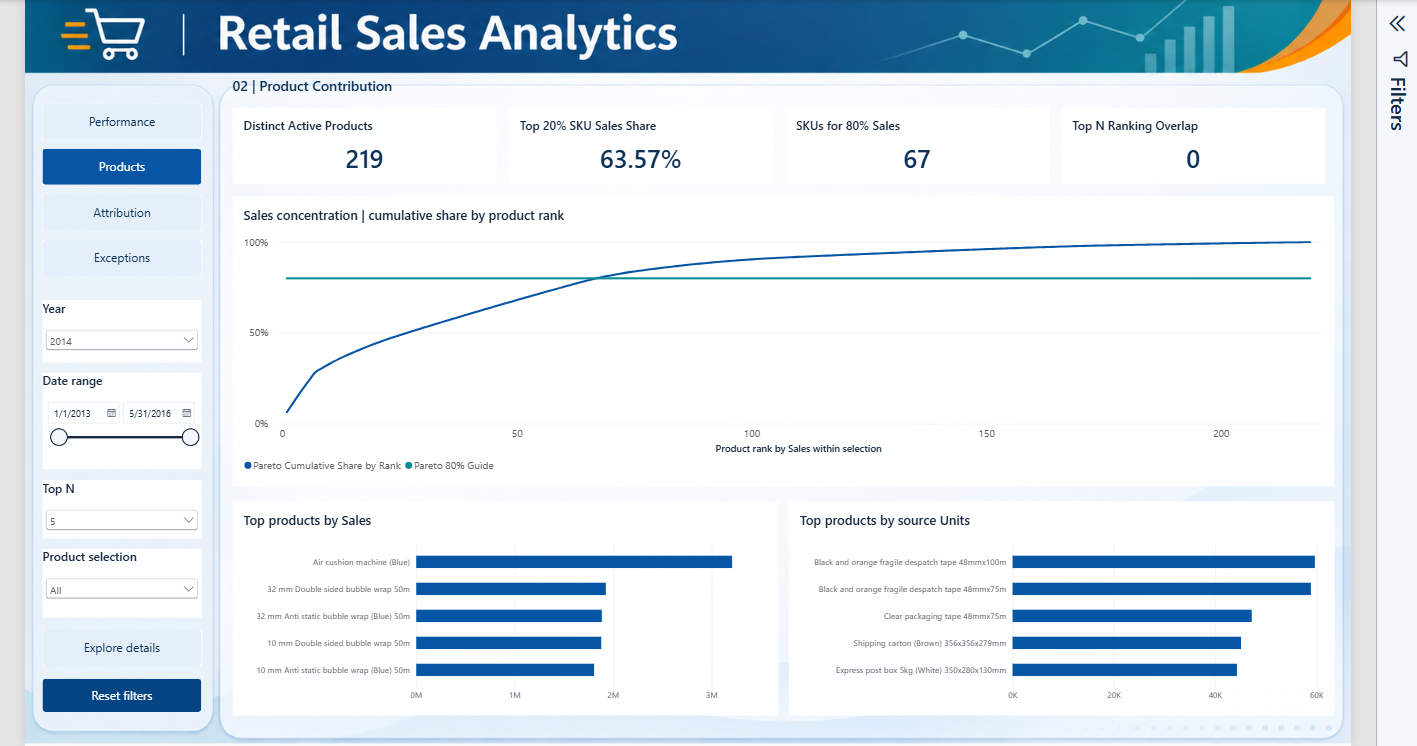
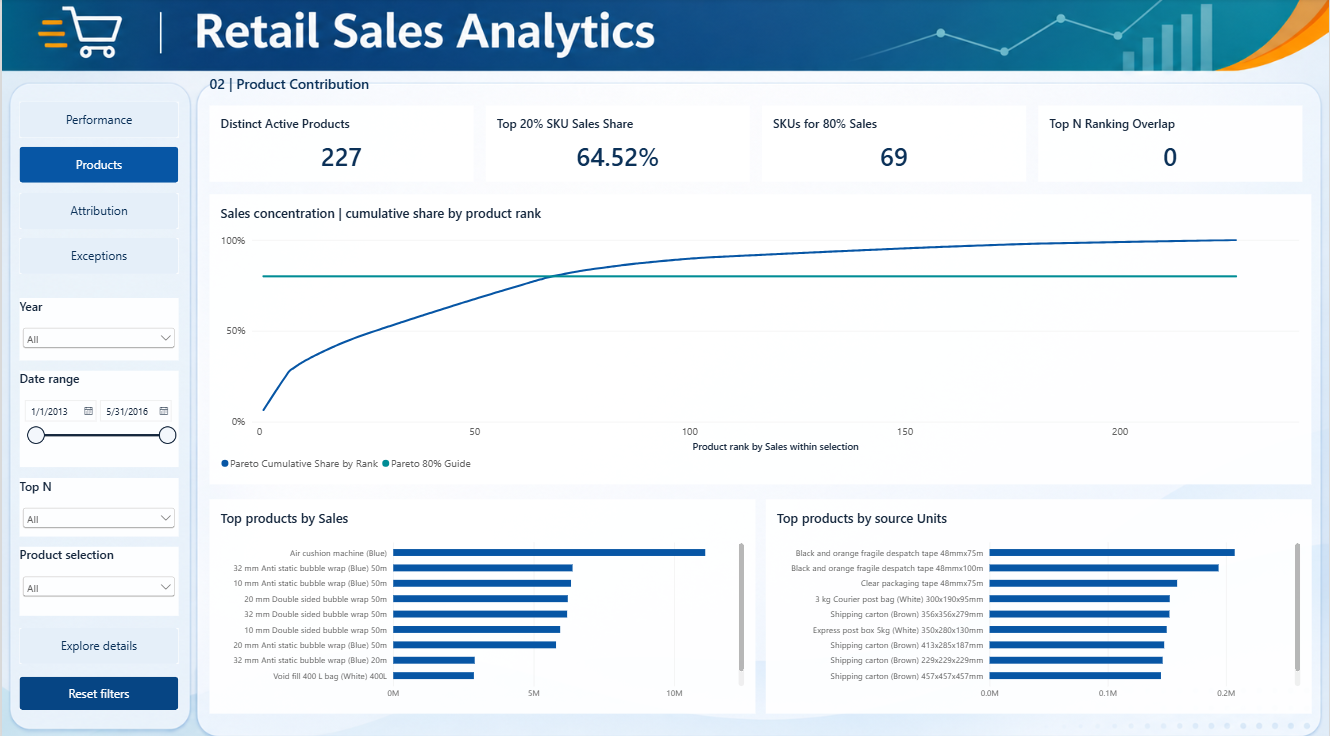
docs: show all four Power BI pages across the full dataset

diff --git a/powerbi/README.md b/powerbi/README.md
@@ -92,13 +92,33 @@ Reset uses ClearAllSlicers, not bookmark restoration or guaranteed removal of ex
 
 ## Dashboard Screenshots
 
+All four overview pages show the full dataset, January 2013–May 2016: Year is All and the date range spans the complete period. Top N and Product selection are All where available; Top 5 concentration cards retain their fixed five-account definition.
+
+### Sales Performance
+
 ![Power BI Sales Performance](../docs/assets/sales-performance.png)
 
-Sales Performance with 2014 selected.
+Sales totals and monthly trends, with invoice volume and average invoice value on independent axes.
+
+### Product Contribution
 
 ![Power BI Product Contribution](../docs/assets/product-contribution.png)
 
-Product Contribution with 2014 and Top N=5 selected. These views have a different scope from the all-period KPI totals and January–May comparisons. [Image provenance](../docs/assets/provenance.json) records hashes and filter context.
+Product contribution across all products, including cumulative sales share, the 80% reference and sales/unit rankings.
+
+### Sales Attribution
+
+![Power BI Sales Attribution](../docs/assets/sales-attribution.png)
+
+Buyer versus Bill-to concentration and customer counts over the same sales population. The cumulative curves and account shares describe each role separately; never add their totals.
+
+### Exceptions & Coverage
+
+![Power BI Exceptions and Coverage](../docs/assets/exceptions-coverage.png)
+
+Negative source LineProfit records and rates, affected products, monthly warning patterns and weekday activity. These source warnings are not certified accounting losses, and zero-transaction Sundays do not by themselves establish missing data or business closure.
+
+[Image provenance](../docs/assets/provenance.json) records hashes and filter context. The screenshots cover all periods, while the January–May comparisons in the business insights use a narrower date window.
 
 ## Refreshing Data
 

diff --git a/README.md b/README.md
@@ -78,13 +78,33 @@ The report answers four groups of business questions:
 - Sales Attribution: how Buyer and Bill-to roles change the view of customer concentration.
 - Exceptions & Coverage: where source warnings and zero-activity dates affect interpretation.
 
+The overview screenshots cover the full dataset, January 2013–May 2016, with Year set to All and no date-range restriction. Where available, Top N and Product selection are also set to All.
+
+### Sales Performance
+
 ![Power BI Sales Performance dashboard](docs/assets/sales-performance.png)
 
-Sales Performance, filtered to 2014.
+Full-period sales, invoice activity, average invoice value and units, with monthly trends and comparable prior-year sales.
+
+### Product Contribution
 
 ![Power BI Product Contribution dashboard](docs/assets/product-contribution.png)
 
-Product Contribution, filtered to 2014 with Top N set to 5. Four additional detail pages support exploration. The [Power BI guide](powerbi/README.md) describes measures, filters and Manual Refresh.
+Product sales concentration, the Pareto distribution and rankings by sales and source units across all products.
+
+### Sales Attribution
+
+![Power BI Sales Attribution dashboard](docs/assets/sales-attribution.png)
+
+Buyer and Bill-to concentration compare two views of the same sales population; role totals are not additive.
+
+### Exceptions & Coverage
+
+![Power BI Exceptions and Coverage dashboard](docs/assets/exceptions-coverage.png)
+
+Source LineProfit warnings by product and month, alongside weekday order/invoice activity and zero-transaction Sundays. Source warnings do not establish accounting losses.
+
+Four additional detail pages support exploration. The [Power BI guide](powerbi/README.md) describes measures, filters and Manual Refresh.
 
 ## Business Insights
 
